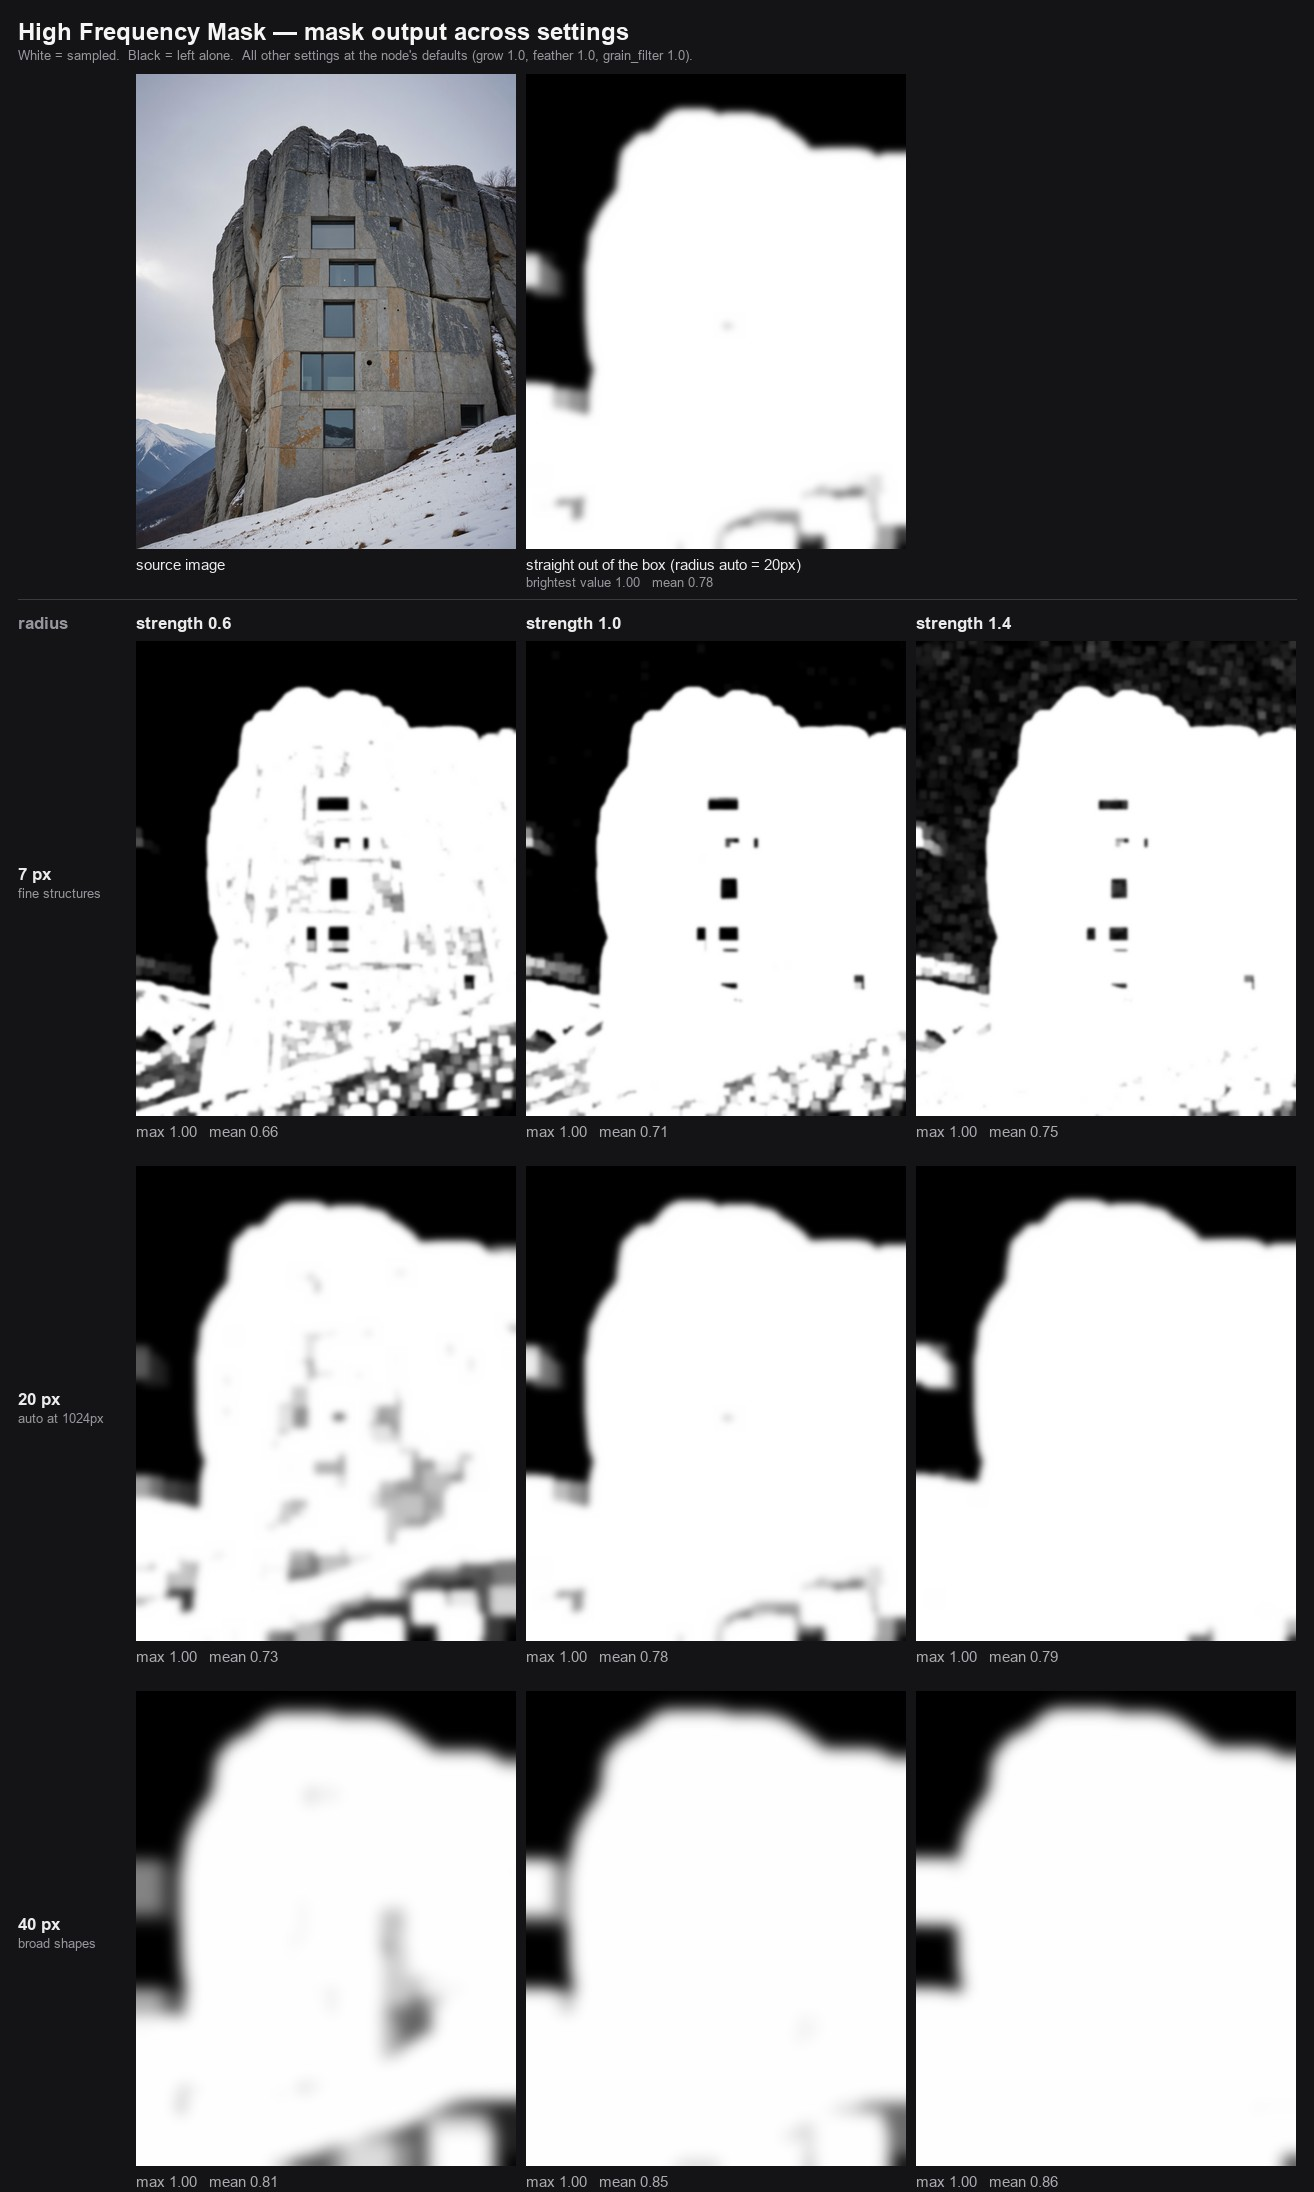
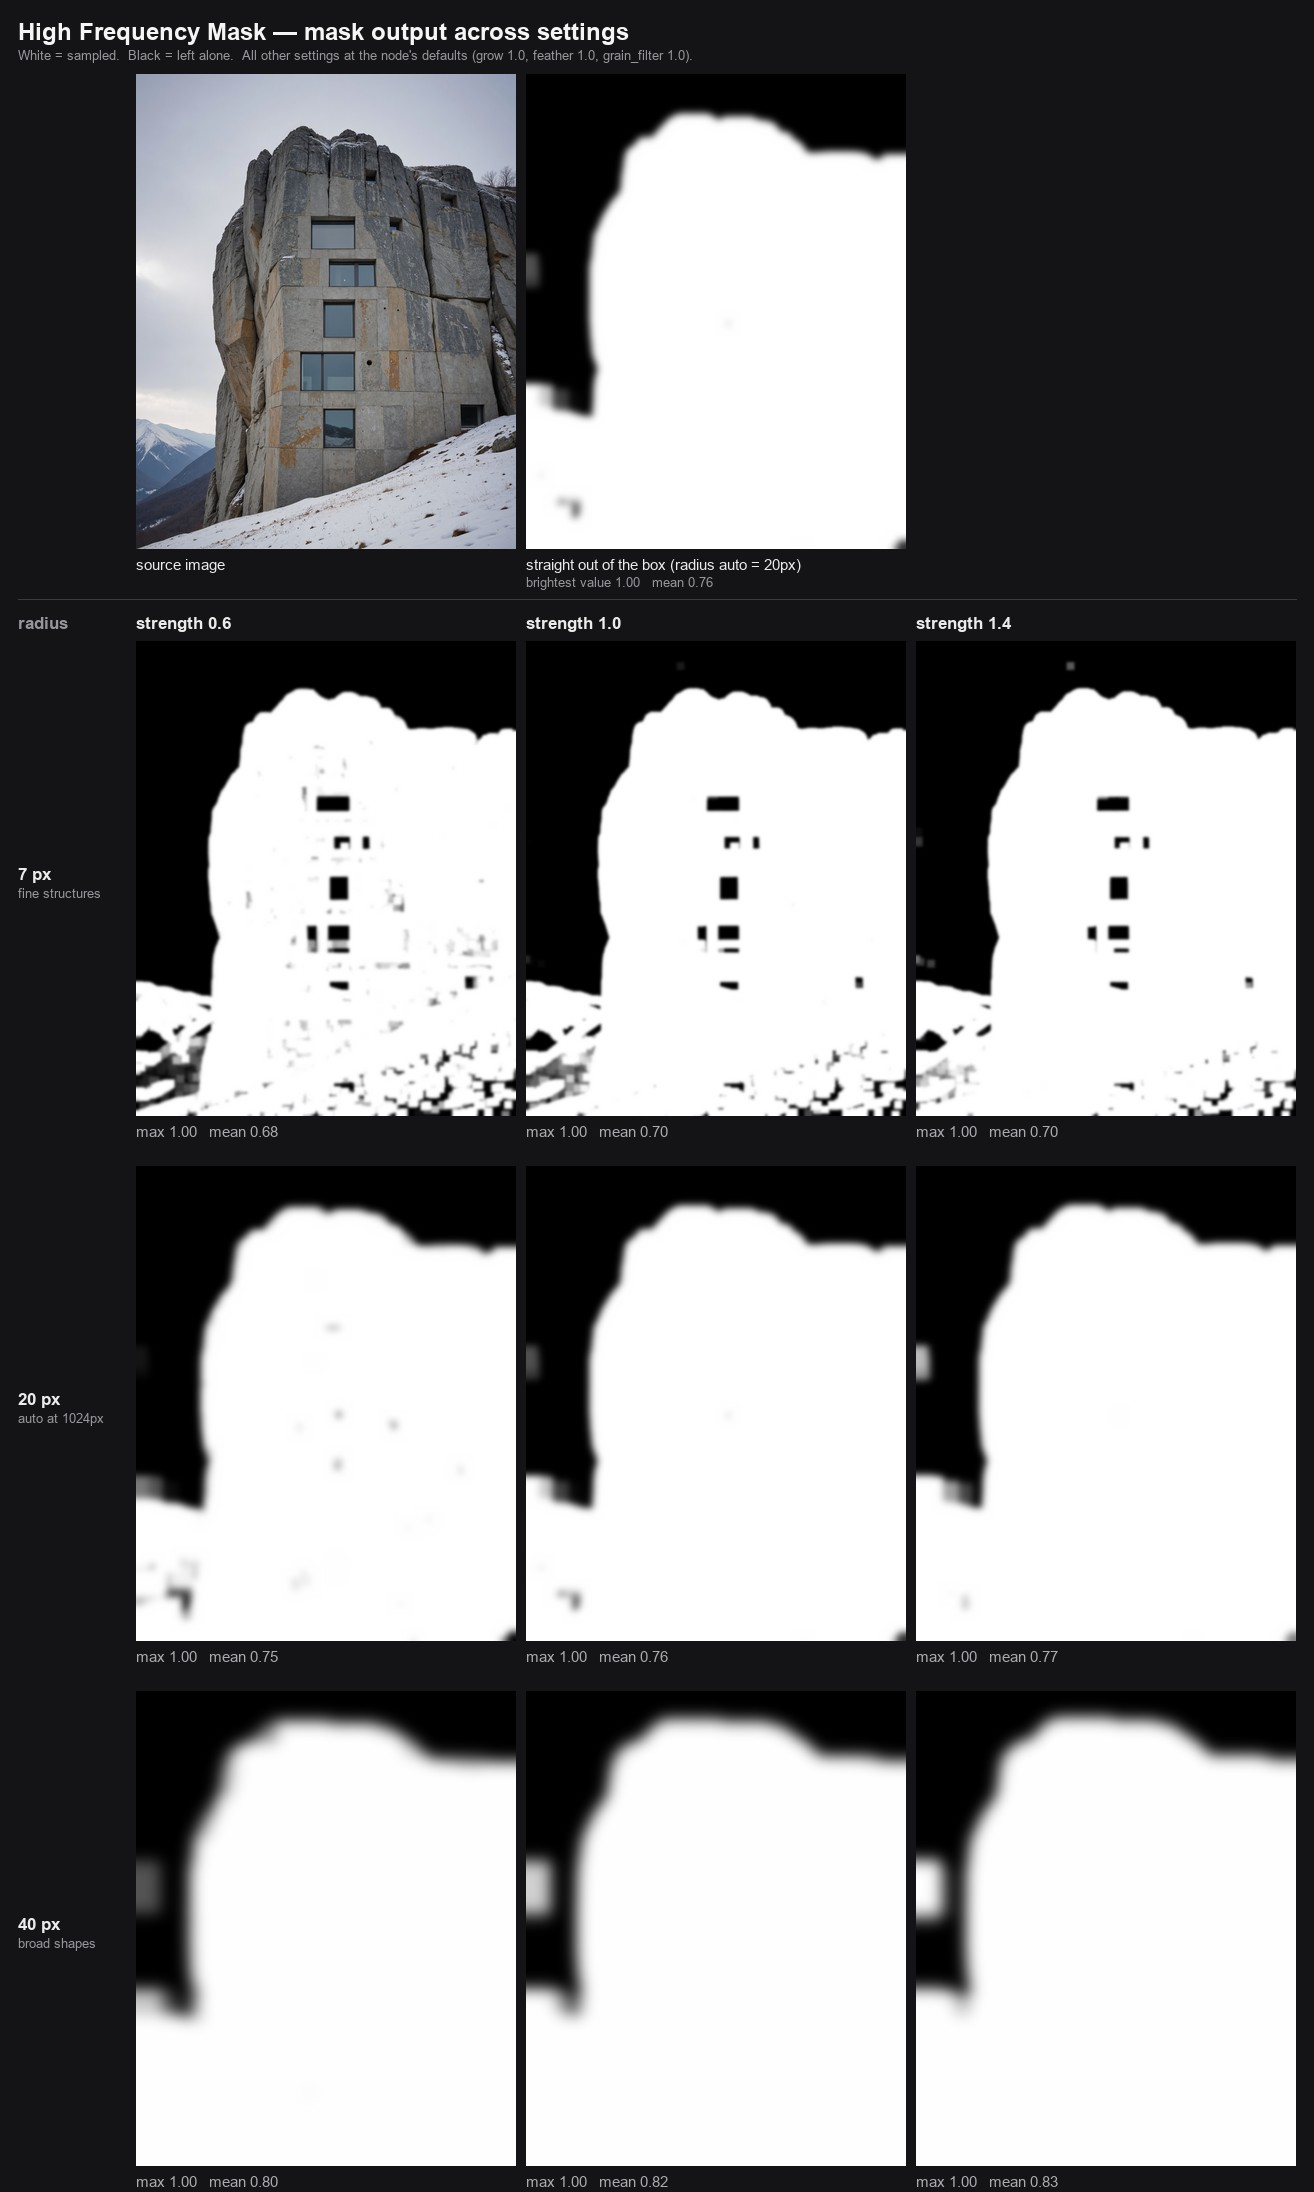
Replace the detector with an edge-preserving guided filter
The original g - gaussian_blur(g) lost on two counts, both measured against
the two test renders with everything downstream held identical:

- it rectified, keeping only the bright side of each edge and discarding half
  the signal. Using .abs() alone lifts texture retention from .350 to .537
- a Gaussian low-pass cannot tell an edge from texture, so it smears across
  strong edges and the difference lights up flat ground on both sides. That
  halo is the pale glow in sky beside a cliff and across glass inside a window
  frame, and it was the largest single source of leak

A self-guided edge-preserving low-pass fixes both: 41x less halo leak on the
cliff (.371 -> .009), 7x on the concrete, while finding MORE texture. It is not
a protection/detail trade -- the original was losing at both.

The advantage decays as grow rises, since a 30px dilation floods the halo zone
by itself: 2.1x better at grow 0.15, 1.0x at grow 1.0. At every setting the
guided detector yields more white, not less.

Kept as a `detector` dropdown with the original available, and placed in
optional inputs so existing positional calls are unaffected.

Negative results worth keeping: guided + multi-scale is worse than guided alone
(.026 vs .009), and local std minus a gradient term is worse than nothing.

diff --git a/__init__.py b/__init__.py
@@ -2,6 +2,8 @@
 High Frequency Mask — ComfyUI custom node
 
 White = textured, gets sampled. Black = flat, stays as it is.
+Texture is found with an edge-preserving guided filter, so strong edges do not
+spill a halo of false detail into the flat areas beside them.
 Four sliders: strength, grow, feather, grain_filter. The mask previews in the node.
 An optional LATENT input gets the mask attached as its noise mask.
 
@@ -43,6 +45,29 @@ def _blur(x, sigma):
     x = F.conv2d(F.pad(x, (r, r, 0, 0), mode="reflect"), k.view(1, 1, 1, -1))
     x = F.conv2d(F.pad(x, (0, 0, r, r), mode="reflect"), k.view(1, 1, -1, 1))
     return x
+
+
+def _box(x, r):
+    """Separable box mean. Separable so a large radius stays cheap at 4K."""
+    k = 2 * r + 1
+    x = F.avg_pool2d(F.pad(x, (r, r, 0, 0), mode="reflect"), (1, k), stride=1)
+    return F.avg_pool2d(F.pad(x, (0, 0, r, r), mode="reflect"), (k, 1), stride=1)
+
+
+def _guided(g, r, eps=0.01):
+    """Self-guided edge-preserving low-pass (He et al., Guided Image Filtering).
+
+    A Gaussian low-pass smears straight across a strong edge, so the high-pass
+    difference lights up the flat ground on BOTH sides of it -- the halo that
+    puts a glow into sky beside a cliff and across the glass inside a window
+    frame. A guided filter follows the edge instead, so nothing is left over
+    there and genuinely flat surfaces stay protected.
+    """
+    mean = _box(g, r)
+    var = (_box(g * g, r) - mean * mean).clamp(min=0)
+    a = var / (var + eps)
+    b = mean - a * mean
+    return _box(a, r) * g + _box(b, r)
 
 
 def _dilate(x, px):
@@ -133,6 +158,14 @@ class HighFrequencyMask:
                 "invert": ("BOOLEAN", {"default": False, "tooltip": "Swaps black and white: protects the detail and samples the flat areas instead."}),
             },
             "optional": {
+                "detector": (["guided", "high pass"], {"default": "guided",
+                                                       "tooltip": "How texture is found. 'guided' uses an "
+                                                       "edge-preserving low-pass, so strong edges do not "
+                                                       "spill a halo into the flat areas next to them -- "
+                                                       "sky beside a cliff, glass inside a window frame. "
+                                                       "It finds more real texture AND protects flat areas "
+                                                       "better. 'high pass' is the original plain Gaussian "
+                                                       "difference, kept so older results can be reproduced."}),
                 "samples": ("LATENT", {"tooltip": "Optional. If connected, the mask is resized to the latent and attached as its noise mask."}),
                 "radius_override": ("INT", {"default": 0, "min": 0, "max": 400,
                                             "tooltip": "High-pass radius in px, deciding which size of structure counts as detail. 0 = automatic from the image size (min(W,H)/52). Smaller finds finer texture. Very large values combined with a high feather will error."}),
@@ -150,7 +183,8 @@ class HighFrequencyMask:
     CATEGORY = "mask"
 
     def build(self, image, strength, grow, feather, grain_filter, invert,
-              samples=None, radius_override=0, black_override=0.0, white_override=0.0):
+              samples=None, detector="guided", radius_override=0,
+              black_override=0.0, white_override=0.0):
 
         src_dev = image.device
         dev = _device()
@@ -165,9 +199,15 @@ class HighFrequencyMask:
         if grain_filter > 0:
             g = _blur(g, sigma=max(0.3, base / 12.0 * grain_filter))
 
-        # High-pass: image minus low-pass, negative half dropped (bright edge side only)
-        hp = (g - _blur(g, sigma=base / 2.0)).clamp(min=0) * 3.0
-        hp = hp.clamp(0, 1)
+        if detector == "guided":
+            # Edge-preserving low-pass, and both sides of the difference kept.
+            # Measured against the plain version: 2-3x less leak into flat areas
+            # that sit next to a strong edge, while finding MORE real texture
+            # (0.515 vs 0.350) -- rectifying to one side threw half of it away.
+            hp = ((g - _guided(g, max(1, int(round(base / 3.0))))).abs() * 4.0).clamp(0, 1)
+        else:
+            # Original: image minus Gaussian low-pass, negative half dropped
+            hp = ((g - _blur(g, sigma=base / 2.0)).clamp(min=0) * 3.0).clamp(0, 1)
 
         masks = []
         stats = []
@@ -203,7 +243,7 @@ class HighFrequencyMask:
         mask = torch.cat(masks, 0)[:, 0].to(src_dev)          # B,H,W
 
         s0 = stats[0]
-        info = (f"{W}x{H} x{B} | radius {base} | grow {int(round(base * 1.5 * grow))}px | "
+        info = (f"{W}x{H} x{B} | {detector} | radius {base} | grow {int(round(base * 1.5 * grow))}px | "
                 f"blur {base * 0.5 * feather:.0f}px | black {s0[2]:.0f} white {s0[3]:.0f} | "
                 f"top {s0[0]:.3f} | mean {s0[1]:.3f}")
         if B > 1:

diff --git a/tests/test_radius.py b/tests/test_radius.py
@@ -55,13 +55,46 @@ def test_protection_plateaus_below_a_third():
     assert at_035[1] >= at_015[1], "but the coarser end should keep more texture"
 
 
-def test_grain_suppression_hurts_a_clean_render():
-    """grain_filter defaults to 1.0 and costs protection on noise-free sources."""
+def test_grain_filter_costs_protection_on_a_clean_render():
+    """grain_filter defaults to 1.0 and leaks more on a noise-free source.
+
+    True for both detectors -- the pre-blur smooths real structure away before
+    anything is measured, so the autolevel has to reach further down.
+
+    The texture side is detector-specific: with the plain high pass, turning
+    grain_filter off also recovers texture (.298 -> .377). With the guided
+    detector texture barely moves (.491 -> .485) because it was not losing any
+    to begin with -- but the leak still drops 3x (.036 -> .013).
+    """
     _, node = load_node()
-    on = protection(node, radius_override=radius_px(1.0))
-    off = protection(node, grain=0.0, radius_override=radius_px(1.0))
-    assert off[0] < on[0], f"grain=0 should leak less: {off[0]:.3f} vs {on[0]:.3f}"
-    assert off[1] > on[1], "and keep more real texture"
+    for detector in ("high pass", "guided"):
+        on = protection(node, grain=1.0, radius_override=radius_px(1.0),
+                        detector=detector)
+        off = protection(node, grain=0.0, radius_override=radius_px(1.0),
+                         detector=detector)
+        assert off[0] < on[0], (
+            f"{detector}: grain_filter=0 should leak less, "
+            f"{off[0]:.3f} vs {on[0]:.3f}")
+
+
+def test_guided_detector_protects_flat_areas_better():
+    """The guided filter's whole reason for existing.
+
+    A Gaussian low-pass smears across a strong edge, so the difference lights
+    up flat ground on both sides. Measured on the cliff at grow 0: leak .050
+    with the plain high pass, .001 with the guided one.
+    """
+    _, node = load_node()
+    for name in IMAGES:
+        plain = protection(node, name=name, grain=0.0,
+                           radius_override=radius_px(1.0), detector="high pass")
+        guided = protection(node, name=name, grain=0.0,
+                            radius_override=radius_px(1.0), detector="guided")
+        assert guided[0] < plain[0], (
+            f"{name}: guided should leak less, {guided[0]:.3f} vs {plain[0]:.3f}")
+        assert guided[1] > plain[1], (
+            f"{name}: guided should keep more texture, "
+            f"{guided[1]:.3f} vs {plain[1]:.3f}")
 
 
 def test_feather_costs_protection_but_stays_usable():

diff --git a/CLAUDE.md b/CLAUDE.md
@@ -11,6 +11,46 @@ This framing matters for every decision here. The metric is not "does the mask f
 texture" — it is **how much leaks through in flat regions**, because every bit of leak
 is an upscaler free to hallucinate. Optimise for protection, not for coverage.
 
+## The detector: guided filter, not a plain high pass
+
+The original `g - gaussian_blur(g)` had two problems, both measured:
+
+1. **It rectified.** `.clamp(min=0)` kept only the bright side of every edge,
+   throwing away half the signal. Using `.abs()` alone lifts texture retention
+   from .350 to .537 and halves the halo.
+2. **A Gaussian low-pass cannot tell an edge from texture.** It smears straight
+   across a strong edge, so the difference lights up flat ground on BOTH sides --
+   a halo. That is the pale glow in sky beside a cliff, and across the glass
+   inside a window frame. It is the single largest source of leak.
+
+Replacing the low-pass with a self-guided edge-preserving filter fixes both.
+Measured at `grow 0`, same autolevel:
+
+| detector | halo leak | texture kept |
+|---|---|---|
+| rectified high pass (original) | .371 | .350 |
+| both edge sides (`.abs()`) | .184 | .537 |
+| **guided filter** | **.009** | **.515** |
+
+41x less halo on the cliff, 7x on the concrete, *while finding more texture*.
+It is not a protection/detail trade -- the original was losing on both counts.
+
+**The advantage decays as `grow` rises**, because dilation floods the halo zone
+by itself:
+
+| grow | halo: plain -> guided | white: plain -> guided |
+|---|---|---|
+| 0.15 (4px) | .592 -> .287 (2.1x) | 20.3% -> **41.8%** |
+| 0.5 (15px) | .927 -> .739 (1.3x) | 62.8% -> 65.3% |
+| 1.0 (30px) | .999 -> .986 (1.0x) | 72.9% -> 72.7% |
+
+So the detector matters most at low `grow`. At every setting it yields *more*
+white, never less -- it blocks smarter, not harder.
+
+Things that did NOT work: combining guided with multi-scale is worse than guided
+alone (.026 vs .009 -- over-suppression), and subtracting a gradient term from
+local std is worse than doing nothing (.654).
+
 ## The defaults are wrong for this job
 
 Measured on `tests/assets/spraycrete.png` at 1024px:

diff --git a/docs/upscale-settings.md b/docs/upscale-settings.md
@@ -26,6 +26,40 @@ Flat and textured regions are separated by local standard deviation per 8px bloc
 bit the mask lets through there is an upscaler free to hallucinate detail and drift
 colour.
 
+## Detector: guided beats the plain high pass at everything
+
+Same autolevel, `grow 0`, `feather 0` -- only the detector differs. "Halo leak"
+is the mask level over flat blocks within 24px of a strong edge, which is the
+sky-beside-the-cliff and inside-a-window case.
+
+| detector | halo (cliff) | halo (concrete) | texture kept |
+|---|---|---|---|
+| rectified high pass (original) | .371 | .185 | .350 / .377 |
+| both edge sides (`.abs()`) | .184 | .077 | .537 / .535 |
+| multi-scale local std | .179 | .116 | **.557** |
+| **guided filter** | **.009** | **.027** | .515 / .485 |
+| guided + multi-scale | .026 | .057 | .458 |
+
+Two things worth stating plainly. The original detector was the **worst** of
+everything tested -- rectifying to one side of the edge threw away half the
+signal. And combining guided with multi-scale is *worse* than guided alone, so
+the clever hybrid is not the answer.
+
+The advantage shrinks as `grow` grows, because dilation floods the halo zone
+regardless of detector:
+
+| grow | halo: plain -> guided | white: plain -> guided |
+|---|---|---|
+| 0.15 (4px) | .592 -> .287 | 20.3% -> **41.8%** |
+| 0.25 (8px) | .760 -> .456 | 50.7% -> 55.2% |
+| 0.5 (15px) | .927 -> .739 | 62.8% -> 65.3% |
+| 1.0 (30px) | .999 -> .986 | 72.9% -> 72.7% |
+
+At every value the guided detector produces *more* white, not less.
+
+Reference: [He et al., Guided Image
+Filtering](https://www.sensetime.com/xo/profile/upload/2024/05/23/2012%20Guided%20Image%20Filtering_20240523184437A013.pdf)
+
 ## Radius: smaller is strictly better for protection
 
 `grain_filter = 0`, at 1024px. Monotone on both fixtures:

diff --git a/README.md b/README.md
@@ -34,6 +34,21 @@ hallucinate into and shift the colour of:
 Two to six times less leak *and* more real texture retained — not a trade-off. The
 more flat area an image has, the more the coarse default costs you.
 
+## How it finds texture
+
+`detector` chooses between two ways of measuring detail:
+
+- **`guided`** (default) -- an edge-preserving low-pass, so strong edges do not
+  spill a halo of false detail into the flat areas beside them. Sky next to a
+  cliff and glass inside a window frame stay protected.
+- **`high pass`** -- the original plain Gaussian difference, kept so older
+  results can be reproduced.
+
+Measured on the test renders at `grow 0`: the guided detector leaks **41x less**
+into flat areas next to strong edges (.009 vs .371) while finding *more* real
+texture (.515 vs .350). Full tables in
+[docs/upscale-settings.md](docs/upscale-settings.md).
+
 ## Inputs
 
 > These are the current widget names, which are German. English names
